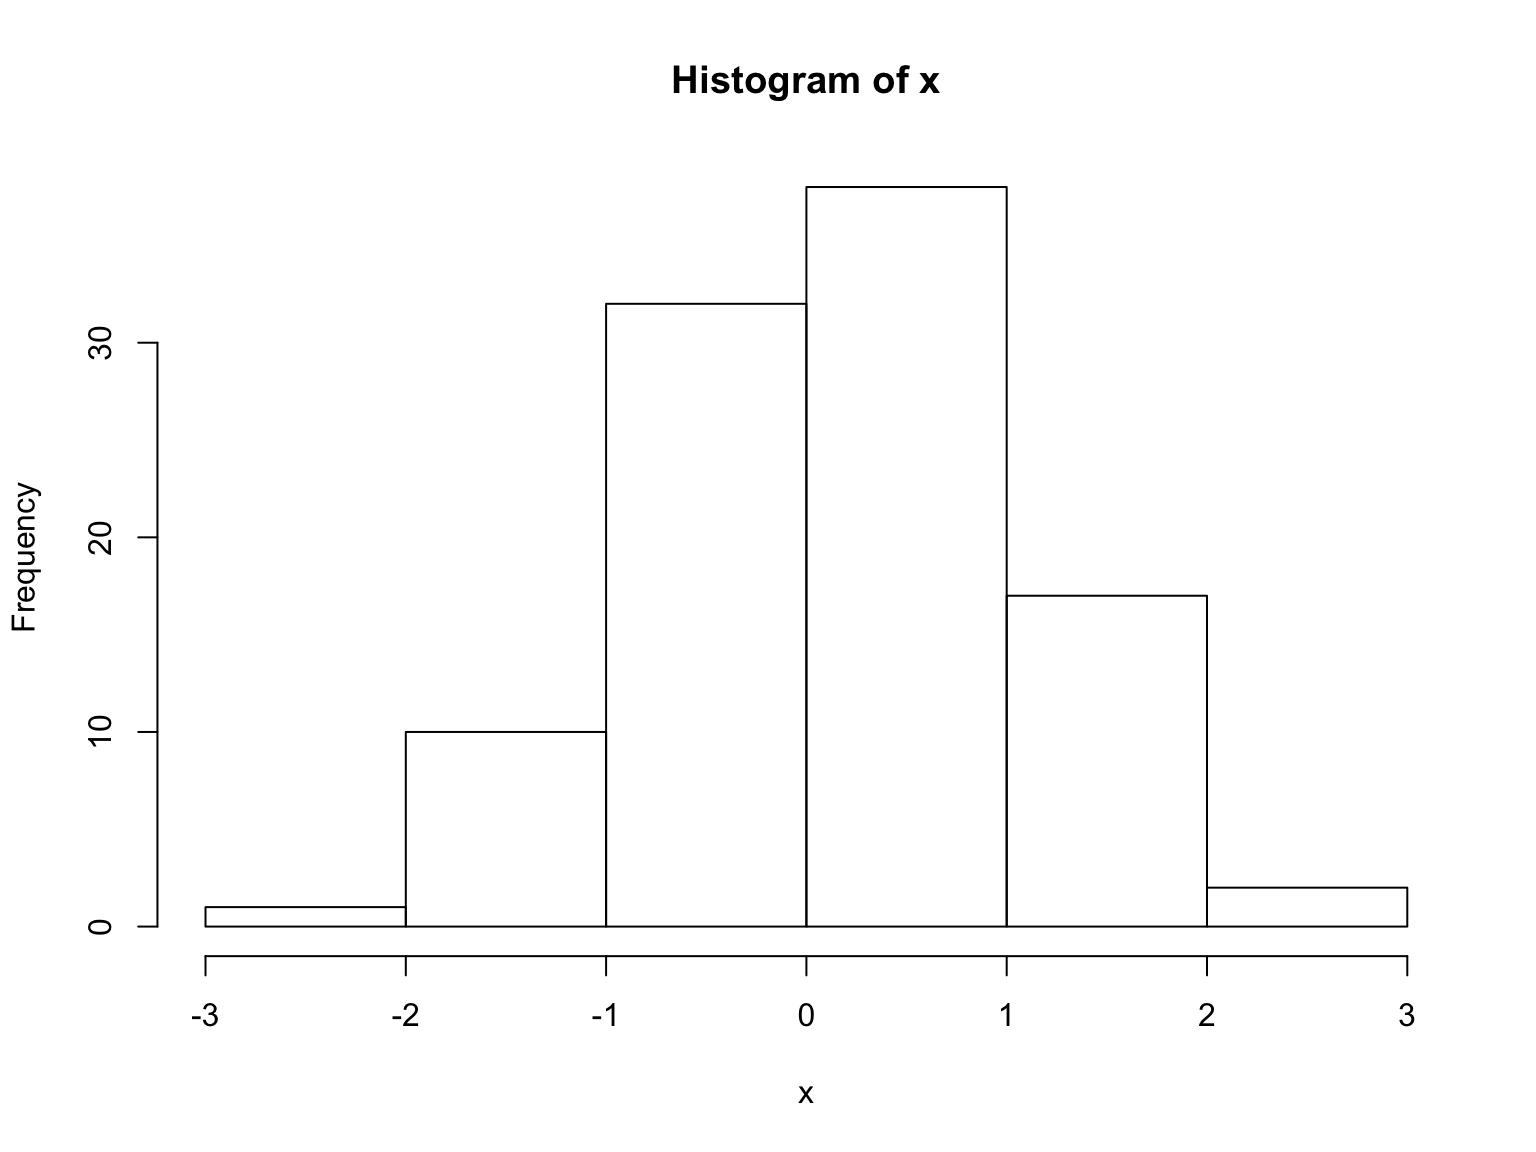
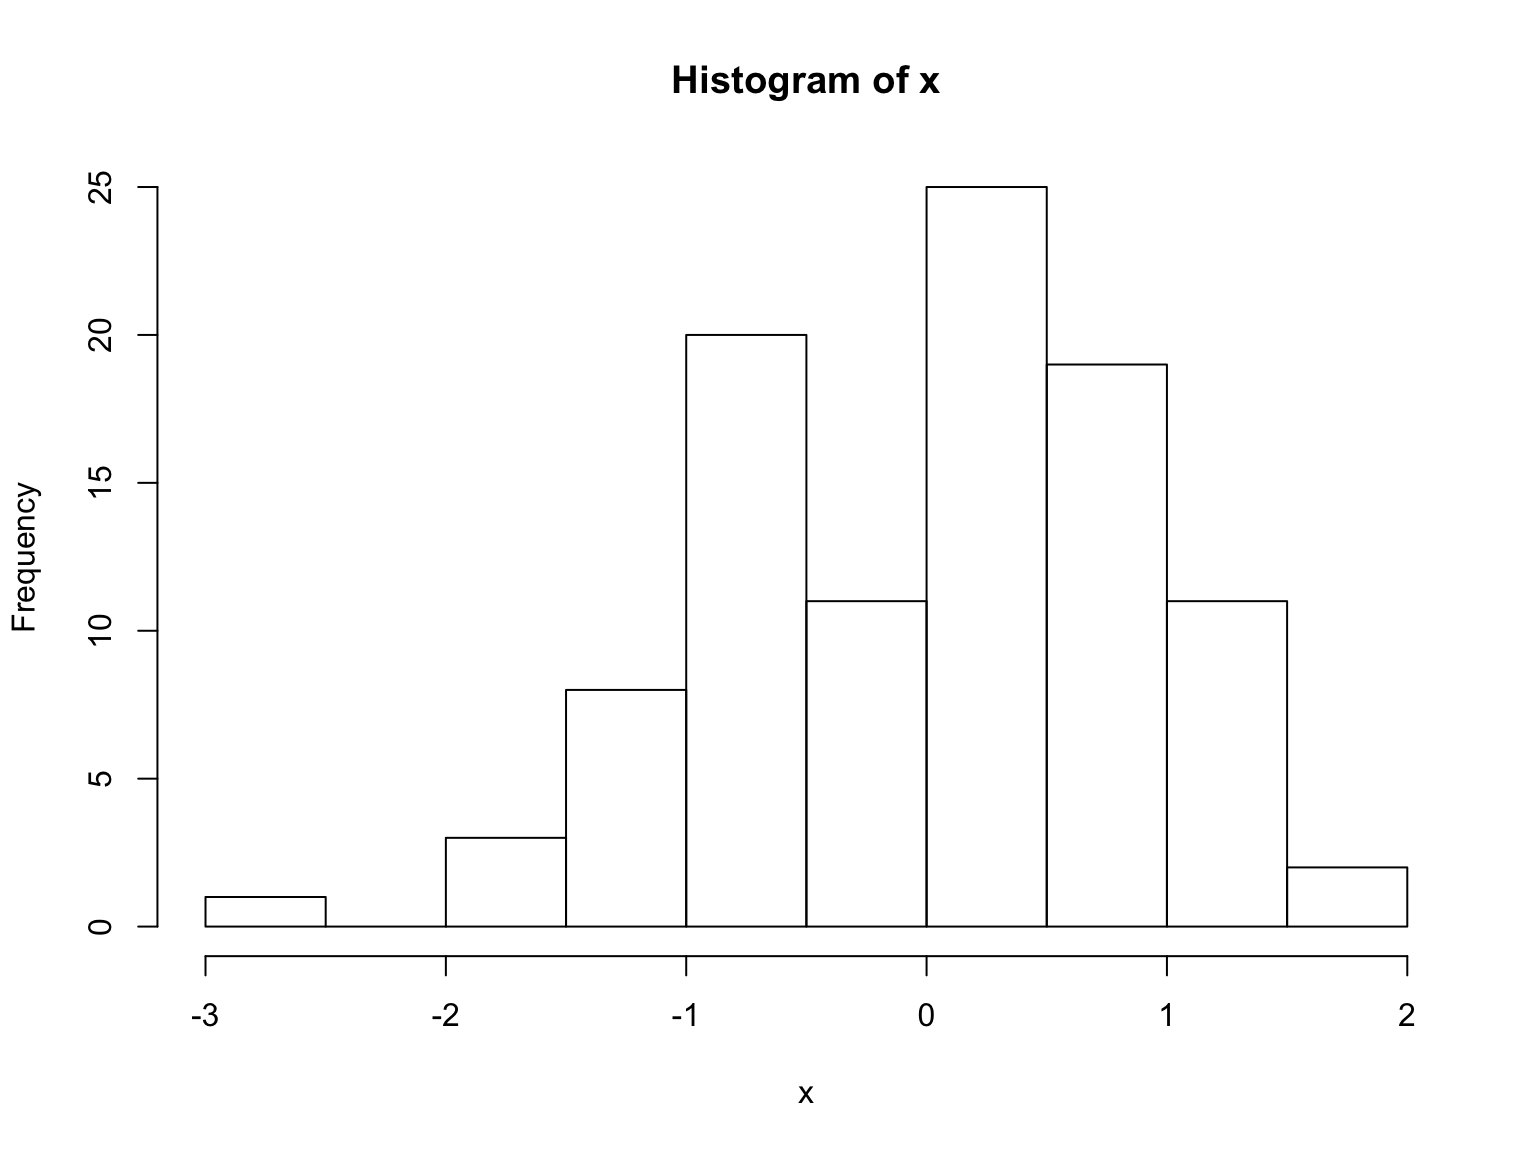
Fix typos

diff --git a/index.html b/index.html
@@ -548,21 +548,22 @@ document.getElementsByTagName('head')[0].appendChild(style);
 <li>Enough details about materials &amp; methods recorded (&amp; reported)</li>
 <li>Same results with same materials &amp; methods</li>
 </ul>
-<p><small>(<a href="http://doi.org/10.1126/scitranslmed.aaf5027">Goodman et al., 2016</a>)</small></p>
+<p><small><a href="http://doi.org/10.1126/scitranslmed.aaf5027">Goodman et al., 2016</a></small></p>
 </section><section class="slide level2">
 
 <p><img src="http://lh6.ggpht.com/_KVa1Tk_k1BU/TTjL-RSY_eI/AAAAAAAABtg/VQIfae1_wtQ/hit_thumb%5B3%5D.jpg?imgmax=800" width="700px" style="display: block; margin: auto;" /></p>
 </section><section id="results-reproducibility" class="slide level2">
 <h2><em>Results</em> reproducibility</h2>
 <ul>
-<li>Same results from independent study <small>(<a href="http://doi.org/10.1126/scitranslmed.aaf5027">Goodman et al., 2016</a>)</small></li>
+<li>Same results from independent study</li>
 </ul>
+<p><small>(<a href="http://doi.org/10.1126/scitranslmed.aaf5027">Goodman et al., 2016</a>)</small></p>
 </section><section id="inferential-reproducibility" class="slide level2">
 <h2><em>Inferential</em> reproducibility</h2>
 <ul>
 <li>Same inferences from one or more studies or reanalyses</li>
 </ul>
-<p><small>(<a href="http://doi.org/10.1126/scitranslmed.aaf5027">Goodman et al., 2016</a>)</small></p>
+<p><small><a href="http://doi.org/10.1126/scitranslmed.aaf5027">Goodman et al., 2016</a></small></p>
 </section><section id="is-scientific-research-different-from-other-flawed-human-endeavors" class="slide level2">
 <h2>Is scientific research different from other (flawed) human endeavors?</h2>
 </section><section id="robert-merton" class="slide level2">
@@ -594,7 +595,7 @@ Wikipedia
 <blockquote>
 <p>“<em>…psychologists tend to treat other peoples’ theories like toothbrushes; no self-respecting individual wants to use anyone else’s.</em>”</p>
 </blockquote>
-<p><small><a href="https://www.psychologicalscience.org/observer/becoming-a-cumulative-science">Mischel, 2009</a></small></p>
+<p><small><a href="https://www.psychologicalscience.org/observer/becoming-a-cumulative-science">Mischel 2009</a></small></p>
 </section><section class="slide level2">
 
 <blockquote>
@@ -605,9 +606,9 @@ Wikipedia
 <section><section id="munafo-et-al.2017" class="title-slide slide level1"><h1><a href="http://www.nature.com/articles/s41562-016-0021">Munafò et al. 2017</a></h1></section><section class="slide level2">
 
 <div class="figure" style="text-align: center">
-<img src="http://www.nature.com/article-assets/npg/nathumbehav/2017/s41562-016-0021/images_hires/w926/s41562-016-0021-f1.jpg" alt="[Munafo et al. 2017](http://doi.org/10.1038/s41562-016-0021)" width="700px" />
+<img src="http://www.nature.com/article-assets/npg/nathumbehav/2017/s41562-016-0021/images_hires/w926/s41562-016-0021-f1.jpg" alt="[Munafò et al. 2017](http://doi.org/10.1038/s41562-016-0021)" width="700px" />
 <p class="caption">
-<a href="http://doi.org/10.1038/s41562-016-0021">Munafo et al. 2017</a>
+<a href="http://doi.org/10.1038/s41562-016-0021">Munafò et al. 2017</a>
 </p>
 </div>
 </section><section class="slide level2">
@@ -839,7 +840,7 @@ source(&quot;R/Visualize_data.R&quot;)
 hist(x)</code></pre>
 </section><section id="section" class="slide level2">
 <h2><img src="index_files/figure-revealjs/unnamed-chunk-13-1.png" width="700px" style="display: block; margin: auto;" /></h2>
-<p>The mean is 0.0933374, the range is [-2.8993915, 2.938784].</p>
+<p>The mean is 0.0131633, the range is [-2.714349, 1.7930418].</p>
 </section><section id="ways-to-use-r-markdown" class="slide level2">
 <h2>Ways to use R Markdown</h2>
 <ul>
